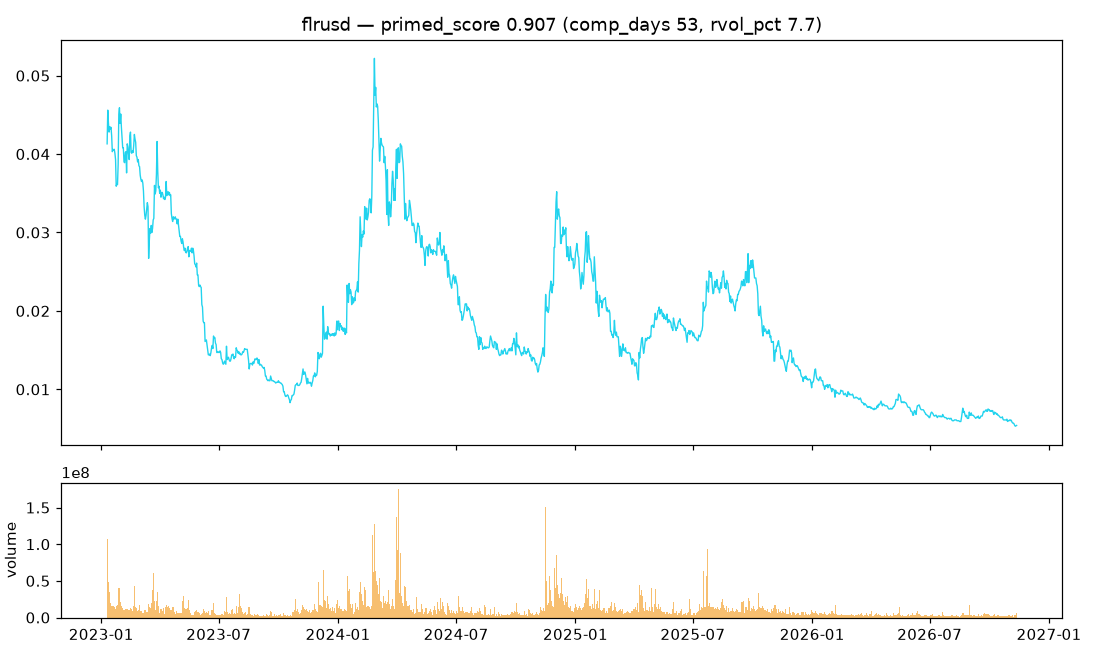
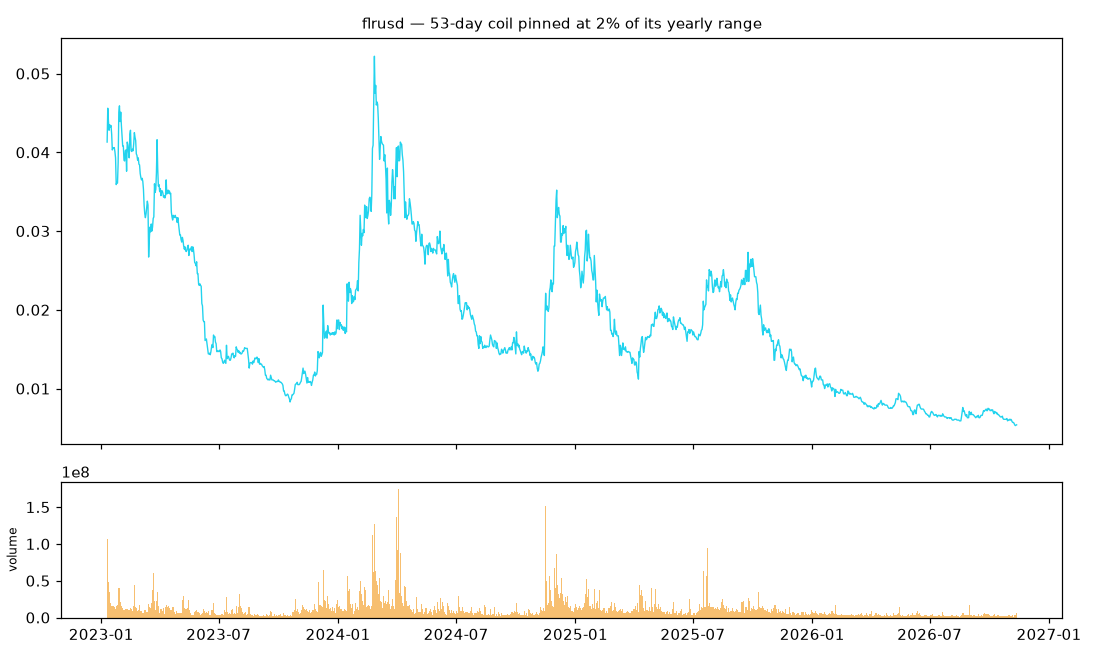
The clue dossier: a dedicated page collecting every chart from the clue program - the eight coiled candidates (storjusd carrying both legs, yggusd's 143-day coil, ordiusd, solusd, kavausd, pendleusd, flrusd, wifusd) each with the scan's reading and flags; the frustration ranking table with the FTX-v

diff --git a/docs/clues.html b/docs/clues.html
@@ -1,0 +1,211 @@
+<!DOCTYPE html>
+<html lang="en">
+<head>
+<meta charset="utf-8">
+<meta name="viewport" content="width=device-width, initial-scale=1">
+<title>Salient — The Clue Dossier</title>
+<link rel="stylesheet" href="site.css">
+</head>
+<body>
+<nav>
+  <a href="index.html">Thesis</a>
+  <a href="concepts.html">Every concept, taught</a>
+  <a href="clues.html" aria-current="page">The clue dossier</a>
+  <a href="falsification.html">Falsification record</a>
+  <a href="infrastructure.html">Data &amp; machinery</a>
+  <a href="knowledge.html">Knowledge base</a>
+  <a href="instrument.html">The instrument (live)</a>
+</nav>
+<main>
+
+<div class="kicker">Every chart collected &middot; every clue &middot; every honest caveat</div>
+<h1>The Clue Dossier<span class="dot">.</span></h1>
+
+<p>This page is the visual record of the clue program: every chart collected
+in the search for WHAT — the coiled candidates, their measured grievance,
+the case file of the biggest moves, and the per-class verdict that confined
+the clues to crypto. Read it in the order it was found. And read the last
+section first if you are in a hurry: everything here is
+<span class="big">descriptive</span> — candidates, not claims. C7's kill
+lines are the only path from this dossier to knowledge.</p>
+
+<h2>1. The coiled candidates — the springs</h2>
+<p>From the scan of 204 series: 39 deep coils (≥ 20 consecutive days in the
+series' own lowest volatility tercile), 37 of them crypto. The top
+candidates, price and volume, with the scan's reading of each:</p>
+
+<figure><img src="assets/clue_storjusd.png" alt="storjusd price and volume">
+<figcaption><span class="big">storjusd</span> — the candidate carrying both
+legs: a 40-day coil AND the highest frustration score in the panel (72.3) —
+funding at −0.49% per 8h, open interest +193% in 30 days against a coiled
+price. Shorts are paying an extreme price to press on a coiled market while
+nearly doubling their position. FLAG: only 24 aligned perp days.</figcaption></figure>
+
+<figure><img src="assets/clue_yggusd.png" alt="yggusd price and volume">
+<figcaption><span class="big">yggusd</span> — the deepest coil in the
+universe: 143 consecutive days in its lowest volatility tercile, sitting
+at 12% of its 252-day range. Positioning calm (frustration 14.6): the
+spring without the weight.</figcaption></figure>
+
+<figure><img src="assets/clue_ordiusd.png" alt="ordiusd price and volume">
+<figcaption><span class="big">ordiusd</span> — 65-day coil at 17% of its
+yearly range. Its historical coil-exits resolve in the median case with a
+10-day move of ~9%.</figcaption></figure>
+
+<figure><img src="assets/clue_solusd.png" alt="solusd price and volume">
+<figcaption><span class="big">solusd</span> — a major-cap coil: 41 days
+quiet, volatility in its bottom 9th percentile, with a mild grievance
+(frustration 25.7, mildly negative funding, OI +8%). When a top-10 asset
+goes this quiet, the dossier takes note.</figcaption></figure>
+
+<figure><img src="assets/clue_kavausd.png" alt="kavausd price and volume">
+<figcaption><span class="big">kavausd</span> — the highest primed score in
+the universe (0.992): volatility in its bottom 0.7 percentile, volume dried
+to 0.24× its trailing median, 40 days of compression. The quiet before —
+or just quiet.</figcaption></figure>
+
+<figure><img src="assets/clue_pendleusd.png" alt="pendleusd price and volume">
+<figcaption><span class="big">pendleusd</span> — 39-day coil with a deep
+funding trap (76.4) but open interest falling −30%: the grievance without
+the coiling. Half the signature.</figcaption></figure>
+
+<figure><img src="assets/clue_flrusd.png" alt="flrusd price and volume">
+<figcaption><span class="big">flrusd</span> — 53-day coil pinned at 2% of
+its yearly range: the forgotten-and-pinned signature that preceded
+gasusd's +907% and hbarusd's +650% in the case file.</figcaption></figure>
+
+<figure><img src="assets/clue_wifusd.png" alt="wifusd price and volume">
+<figcaption><span class="big">wifusd</span> — 32-day coil at 16% of its
+yearly range, volume dried to 0.65× median.</figcaption></figure>
+
+<h2>2. The grievance — the structural frustration, quantified</h2>
+<p>The same three pre-declared metrics that caught FTX twelve days early
+(funding trap, OI divergence, basis extreme), scored per candidate on each
+one's own Binance perp data:</p>
+
+<figure><img src="assets/frustration_score.png"
+alt="BTCUSDT frustration score 2022-2024 with FTX and carry-unwind marked">
+<figcaption>The BTCUSDT frustration score, 2022–2024 — the validation and
+the boundary in one picture: the FTX spike lands twelve days before the
+event (the internal trap caught an internal unwind); the carry unwind
+arrives with no internal trap beneath it (an external macro shock — the
+circus caught fire, the lion was content).</figcaption></figure>
+
+<table>
+  <tr><th>Candidate</th><th>Coil (days)</th><th>Frustration</th>
+      <th>The grievance, in numbers</th></tr>
+  <tr><td><span class="big">storjusd</span></td><td>40</td>
+      <td><span class="num">72.3</span></td>
+      <td>funding −0.49%/8h (trap 75.5), OI +193%/30d against a coiled
+      price — both legs at once. FLAG: 24 aligned perp days</td></tr>
+  <tr><td><span class="big">pendleusd</span></td><td>39</td>
+      <td><span class="num">35.0</span></td>
+      <td>funding trap 76.4, OI −30% — grievance without coiling</td></tr>
+  <tr><td><span class="big">solusd</span></td><td>41</td>
+      <td><span class="num">25.7</span></td>
+      <td>mildly negative funding, OI +8%</td></tr>
+  <tr><td>santosusd</td><td>64</td><td>15.0</td>
+      <td>basis extreme 74.8, positioning calm</td></tr>
+  <tr><td>ksmusd</td><td>23</td><td>14.8</td><td>OI divergence 23.6</td></tr>
+  <tr><td>yggusd</td><td><span class="num">143</span></td><td>14.6</td>
+      <td>the deepest coil, calm positioning</td></tr>
+  <tr><td>kavausd</td><td>40</td><td>13.9</td>
+      <td>highest primed score (0.992), quiet positioning</td></tr>
+</table>
+<p>Thirteen candidates have no Binance perp (TVC-only pairs) — flagged, not
+hidden. The full table is committed at
+<code>paper/research/clue_scan/panel_frustration.csv</code>.</p>
+
+<h2>3. The case file — how the big moves were anticipated</h2>
+<p>The biggest genuine moves in the panel, with the pre-move state
+reconstructed causally at the last quiet day (data artifacts —
+re-denominations and launch-era near-zero prices — were flagged and
+excluded before this file was written):</p>
+
+<figure><img src="assets/case_cfxusd.png" alt="cfxusd with the move window shaded">
+<figcaption><span class="big">cfxusd, +1,100% / 30d</span> — the textbook
+case: a 53-day deep coil, volatility in its bottom 5.5 percentile, at 7%
+of its yearly range, down 69% on the year. The signature was fully
+measurable the day before.</figcaption></figure>
+
+<figure><img src="assets/case_xrpusd.png" alt="XRP with the move window shaded">
+<figcaption><span class="big">XRP, +432% / 30d</span> — the half-formed
+coil: bottom-12th-percentile volatility, 12 quiet days, 1.6σ below its
+mean, flat year, dried volume. The strict ≥20-day rule would have missed
+it; the quiet-and-forgotten signature was there.</figcaption></figure>
+
+<figure><img src="assets/case_hbarusd.png" alt="hbarusd with the move window shaded">
+<figcaption><span class="big">hbarusd, +650% / 30d</span> — pinned at 5.7%
+of its yearly range, down 57% on the year: the forgotten-and-pinned
+signature, fully present before the move.</figcaption></figure>
+
+<figure><img src="assets/case_gasusd.png" alt="gasusd with the move window shaded">
+<figcaption><span class="big">gasusd, +907% / 30d</span> — volatility in
+its bottom 4th percentile, pinned at 3.4% of its range. Quiet, low,
+forgotten — then nine-fold.</figcaption></figure>
+
+<figure><img src="assets/case_zecusd.png" alt="ZEC with the move window shaded">
+<figcaption><span class="big">ZEC, +513% / 30d — the honest boundary.</span>
+No coil was present: volatility at its 66th percentile, 90% up its range,
+already +2.5σ extended. This move came from momentum, not compression, and
+the dossier includes it precisely because a theory that only remembers its
+hits is marketing.</figcaption></figure>
+
+<figure><img src="assets/case_strkusd.png" alt="strkusd with the move window shaded">
+<figcaption><span class="big">strkusd, the terminal collapse</span> —
+preceded by a parabolic blow-off: the short-side clue. Extreme stretch
+before the falls; the same signature read at 9.95σ before tiausd's −100%.</figcaption></figure>
+
+<h2>4. The per-class verdict — why the clues are in crypto</h2>
+<table>
+  <tr><th>Class</th><th>Series</th><th>Deep coils</th>
+      <th>Median |10-day move| after coil exit</th>
+      <th>Coil exits with a &gt;4σ day</th></tr>
+  <tr><td><span class="big">Crypto</span></td><td>160</td>
+      <td><span class="num">37 of 39</span></td>
+      <td><span class="num">9.27%</span></td><td><span class="num">37.5%</span></td></tr>
+  <tr><td>Indexes</td><td>20</td><td><span class="num">0</span></td>
+      <td>2.13%</td><td>11.8%</td></tr>
+  <tr><td>Commodities</td><td>24</td><td>2</td>
+      <td>2.74%</td><td>13.4%</td></tr>
+</table>
+<p>Deep compression is a crypto phenomenon, and crypto coil-exits detonate
+rather than unfold — the EW-defying signature, measured: the release does
+not arrive in orderly countable waves.</p>
+
+<h2>5. The genesis signature — the start contains the extreme</h2>
+<p>Of the 24 pairs with true launch-era data, the all-time high of the
+entire available history still sits in the first 90 days for
+<span class="num">29.2%</span> — four times the random-window null of
+7.2%. Seven pairs never again approached their launch-window high. Those
+who knew the WHAT were there from the beginning; the chart remembers.</p>
+
+<h2>Read this last — the caveats that bind everything above</h2>
+<ul>
+  <li><span class="big">Multiplicity:</span> scanning 204 series for
+  extremes finds extremes by construction. Every candidate above is a
+  candidate, not evidence.</li>
+  <li><span class="big">The vol-tautology ghost:</span> the daily timing
+  layer died because "compression" added nothing beyond the volatility it
+  was built from. C7's third kill line exists to ask the same question of
+  this dossier: is "primed" anything more than "quiet"?</li>
+  <li><span class="big">Short windows are flagged:</span> storjusd's
+  frustration score rides 24 aligned perp days; its z-scores are less
+  reliable than the long-window scores.</li>
+  <li><span class="big">Survivorship and provenance:</span> the TVC panel
+  has survivorship; volume on contracted pairs is frequently synthetic and
+  every volume-based reading carries that flag.</li>
+  <li><span class="big">The case file is anecdotes with discipline.</span>
+  The C7 panel test — primed decile vs climatology, group-aware purging,
+  DSR for the everything-search, kill lines pre-declared — is what turns
+  this dossier into either a method or a memory.</li>
+</ul>
+
+</main>
+<footer>
+Salient — a falsification-first market research programme. It will never
+trade live. Machine-readable sources:
+<code>paper/research/clue_scan/</code>.
+</footer>
+</body>
+</html>

diff --git a/docs/index.html b/docs/index.html
@@ -10,6 +10,7 @@
 <nav>
   <a href="index.html" aria-current="page">Thesis</a>
   <a href="concepts.html">Every concept, taught</a>
+  <a href="clues.html">The clue dossier</a>
   <a href="falsification.html">Falsification record</a>
   <a href="infrastructure.html">Data &amp; machinery</a>
   <a href="knowledge.html">Knowledge base</a>
@@ -192,6 +193,7 @@ approaching certainty as the horizon lengthens, with the drawdown constraint
 of the undated wait.</p>
 
 <h3>The clue scan — every chart, price and volume, before building anything</h3>
+<p>The full visual record — every candidate chart, the frustration scores, the case file, and the caveats — lives in <a href="clues.html"><span class="big">the clue dossier</span></a>.</p>
 <p>Before building the priming score, the directive was to look at
 <span class="big">every</span> chart, starting from daily price and volume.
 <span class="num">204</span> series scanned (all causal variables, computed

diff --git a/docs/concepts.html b/docs/concepts.html
@@ -22,6 +22,7 @@
 <nav>
   <a href="index.html">Thesis</a>
   <a href="concepts.html" aria-current="page">Every concept, taught</a>
+  <a href="clues.html">The clue dossier</a>
   <a href="falsification.html">Falsification record</a>
   <a href="infrastructure.html">Data &amp; machinery</a>
   <a href="knowledge.html">Knowledge base</a>

diff --git a/docs/infrastructure.html b/docs/infrastructure.html
@@ -10,6 +10,7 @@
 <nav>
   <a href="index.html">Thesis</a>
   <a href="concepts.html">Every concept, taught</a>
+  <a href="clues.html">The clue dossier</a>
   <a href="falsification.html">Falsification record</a>
   <a href="infrastructure.html" aria-current="page">Data &amp; machinery</a>
   <a href="knowledge.html">Knowledge base</a>

diff --git a/docs/knowledge.html b/docs/knowledge.html
@@ -10,6 +10,7 @@
 <nav>
   <a href="index.html">Thesis</a>
   <a href="concepts.html">Every concept, taught</a>
+  <a href="clues.html">The clue dossier</a>
   <a href="falsification.html">Falsification record</a>
   <a href="infrastructure.html">Data &amp; machinery</a>
   <a href="knowledge.html" aria-current="page">Knowledge base</a>
